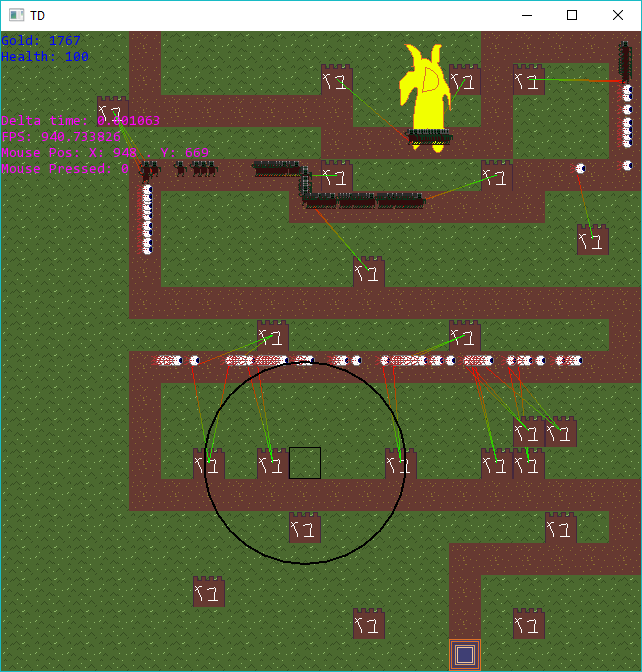
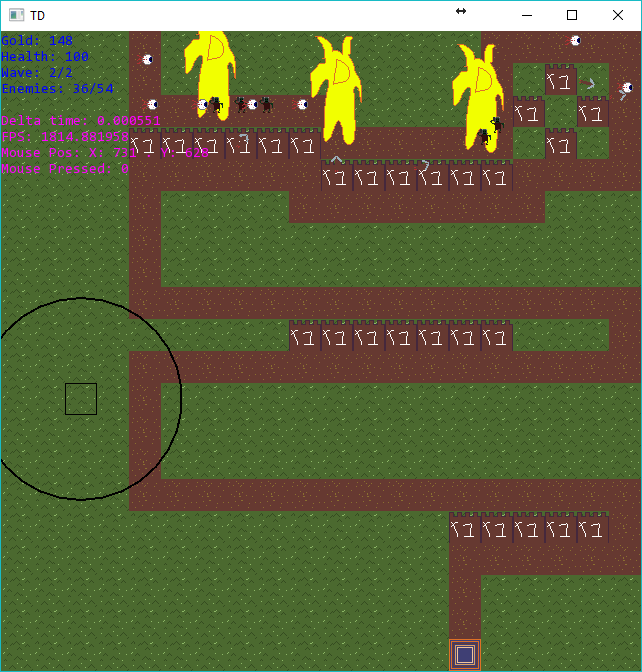
ADD: Second wave to level 1 ADD: Wave\Enemy text to display in the game state CHANGE: The worth and health of two lower enemies to up the difficulty for them. UPDATE: The progress pics!

diff --git a/game/source/gamestate.cpp b/game/source/gamestate.cpp
@@ -94,7 +94,15 @@ void GameState::Update()
 		towerRadius.setPosition(worldGridMousePosition);
 	}
 
-	goldText.setString("Gold: " + std::to_string(currentGold) + "\n" + "Health: " + std::to_string(currentLevel.base->health));
+	std::string currentDataCount = "?";
+
+	if (currentWave < currentLevel.waves.size())
+		currentDataCount = std::to_string(currentLevel.waves[currentWave].enemySpawnData.size());
+
+	goldText.setString("Gold: " + std::to_string(currentGold) + 
+		"\n" + "Health: " + std::to_string(currentLevel.base->health) + 
+		"\n" + "Wave: " + std::to_string(currentWave+1) + "/" + std::to_string(currentLevel.waves.size()) +
+		"\n" + "Enemies: " + std::to_string(currentData+1) + "/" + currentDataCount);
 
 	PostUpdate();
 
@@ -254,6 +262,7 @@ void GameState::UpdateWave()
 			{
 				// TODO: Add pause time.
 				currentWave++;
+				currentData = 0;
 			}
 		}
 	}
@@ -262,11 +271,11 @@ void GameState::UpdateWave()
 void GameState::CreateTypes()
 {
 	// TODO: Load types from file.
-	Enemy enemy1(10, 50, 5, 5, new sf::Sprite(assetDatabase.textureHandler.GetResource("assets/enemy1.png").resource), currentLevel.path, "Simpleton");
+	Enemy enemy1(13, 50, 5, 4, new sf::Sprite(assetDatabase.textureHandler.GetResource("assets/enemy1.png").resource), currentLevel.path, "Simpleton");
 	enemy1.node.SetPosition(Game::GridToWorld(currentLevel.path->nodePoints[0]));
 	enemy1.node.SetFont(assetDatabase.fontHandler.GetResource("assets/Consolas.ttf").resource);
 
-	Enemy enemy2(5, 100, 5, 10, new sf::Sprite(assetDatabase.textureHandler.GetResource("assets/enemy2.png").resource), currentLevel.path, "Blarg");
+	Enemy enemy2(7, 100, 5, 8, new sf::Sprite(assetDatabase.textureHandler.GetResource("assets/enemy2.png").resource), currentLevel.path, "Blarg");
 	enemy2.node.SetPosition(Game::GridToWorld(currentLevel.path->nodePoints[0]));
 	enemy2.node.SetFont(assetDatabase.fontHandler.GetResource("assets/Consolas.ttf").resource);
 
